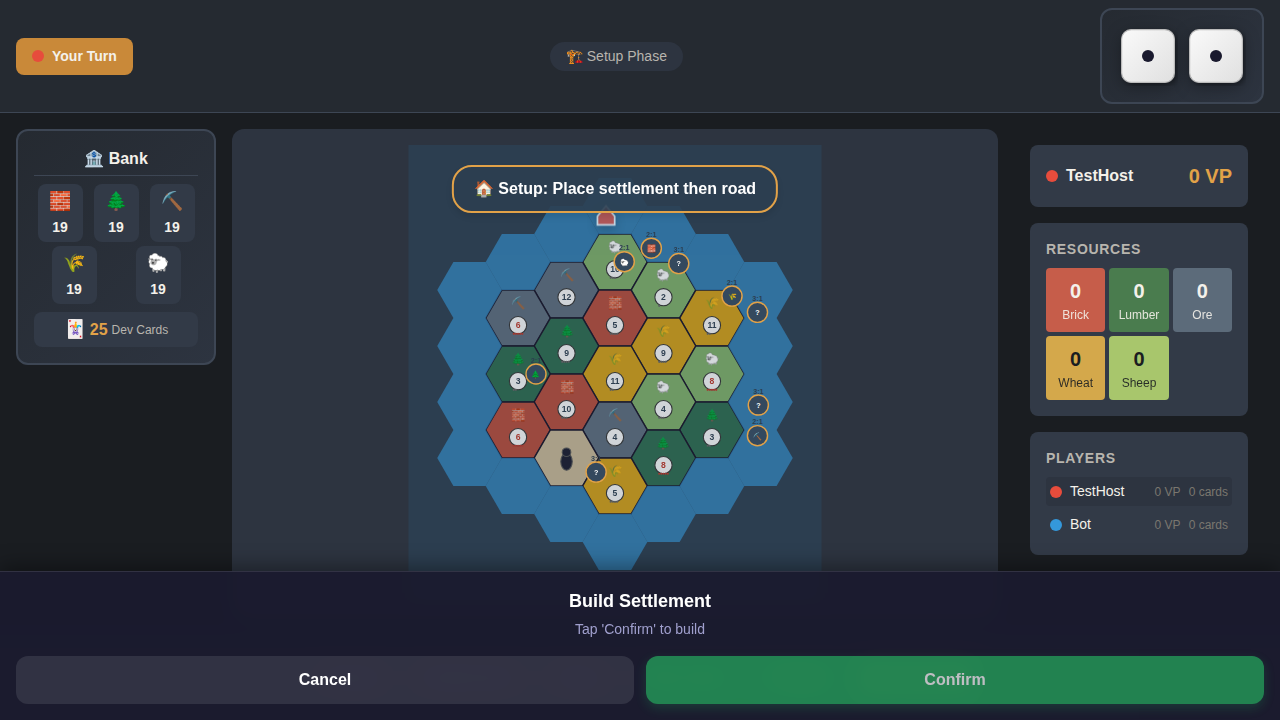
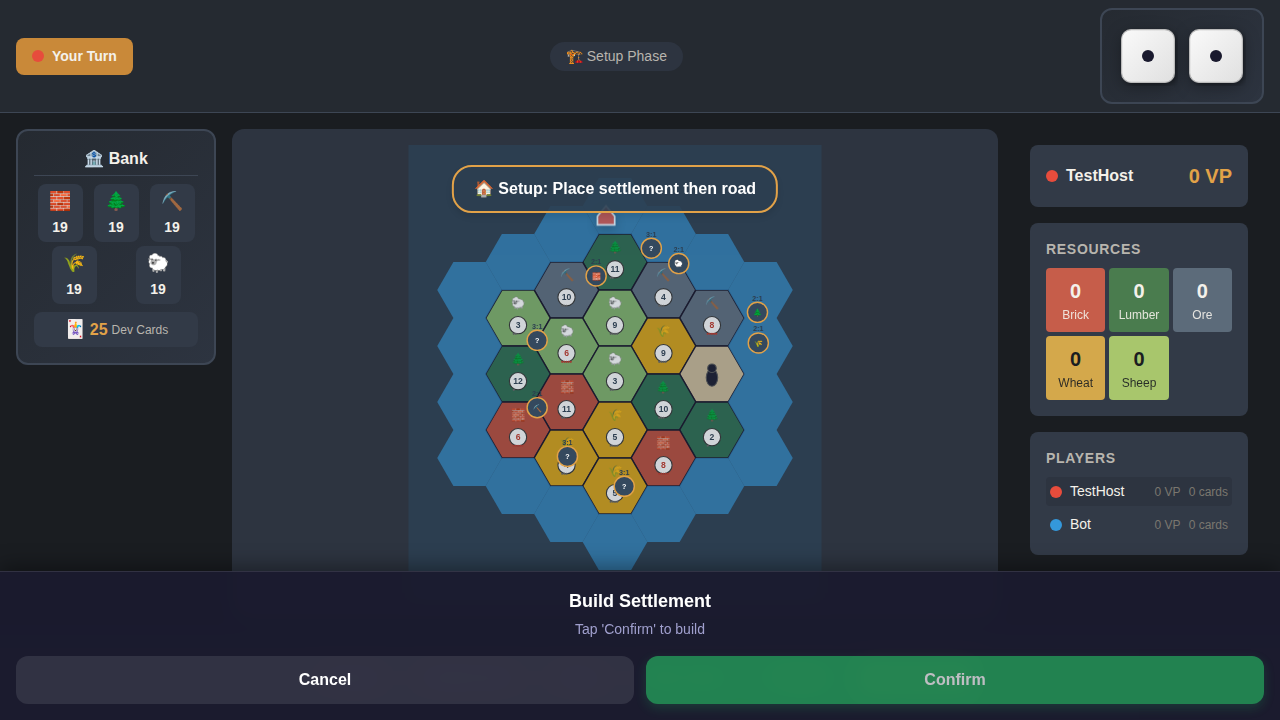
Fix vertex geometry: compute exact corner positions from hex math

Changed region(s): [[0.375, 0.3056, 0.625, 0.7028]]

diff --git a/client/src/components/Board/HexBoard.tsx b/client/src/components/Board/HexBoard.tsx
@@ -14,6 +14,16 @@ interface HexBoardProps {
 // Flat-top hexagons
 const HEX_SIZE = 45;
 
+// Hex neighbor directions (axial coordinates, flat-top)
+const HEX_DIRECTIONS = [
+    { q: 1, r: 0 }, { q: 1, r: -1 }, { q: 0, r: -1 },
+    { q: -1, r: 0 }, { q: -1, r: 1 }, { q: 0, r: 1 }
+];
+
+function getHexNeighbors(coord: { q: number; r: number }) {
+    return HEX_DIRECTIONS.map(d => ({ q: coord.q + d.q, r: coord.r + d.r }));
+}
+
 // Convert axial to pixel
 function hexToPixel(q: number, r: number): { x: number; y: number } {
     const x = HEX_SIZE * (3 / 2 * q);
@@ -150,35 +160,68 @@ function HexBoard({ board, buildings, roads }: HexBoardProps) {
         setSelectedPlacement(null);
     }, [buildMode]);
 
-    // Optimize vertex position calculation with useMemo
+    // Compute correct vertex positions from hex geometry
     const vertexPositions = useMemo(() => {
         const result = new Map<string, { x: number, y: number }>();
         if (!board.hexes.length) return result;
 
+        const hexMap = new Map<string, { x: number; y: number }>();
+        for (const hex of board.hexes) {
+            hexMap.set(`${hex.coord.q},${hex.coord.r}`, hexToPixel(hex.coord.q, hex.coord.r));
+        }
+
+        // Flat-top hex corner angles (degrees): 0, 60, 120, 180, 240, 300
+        const cornerAngles = [0, 60, 120, 180, 240, 300];
+
+        const vertexHexSets = new Map<string, Set<string>>();
         for (const vertex of board.vertices) {
-            if (vertex.hexes.length > 0) {
-                const positions: { x: number, y: number }[] = [];
-                for (const hexCoord of vertex.hexes) {
-                    const center = hexToPixel(hexCoord.q, hexCoord.r);
-                    const corners = getHexCorners(center.x, center.y);
-                    positions.push(...corners);
-                }
+            vertexHexSets.set(vertex.id, new Set(vertex.hexes.map(h => `${h.q},${h.r}`)));
+        }
 
-                if (positions.length > 0) {
-                    let count = 0;
-                    let sumX = 0;
-                    let sumY = 0;
-                    const p0 = positions[0];
+        for (const vertex of board.vertices) {
+            if (vertex.hexes.length === 0) continue;
 
-                    for (const p of positions) {
-                        if (Math.abs(p.x - p0.x) < 5 && Math.abs(p.y - p0.y) < 5) {
-                            sumX += p.x;
-                            sumY += p.y;
-                            count++;
-                        }
+            // Find which corner of each touching hex this vertex is at
+            const positions: { x: number; y: number }[] = [];
+
+            for (const hexCoord of vertex.hexes) {
+                const center = hexMap.get(`${hexCoord.q},${hexCoord.r}`);
+                if (!center) continue;
+
+                const neighbors = getHexNeighbors(hexCoord);
+                const vertexSet = vertexHexSets.get(vertex.id)!;
+
+                for (let i = 0; i < 6; i++) {
+                    const n1 = neighbors[i];
+                    const n2 = neighbors[(i + 1) % 6];
+
+                    // The corner set: this hex plus its two neighbors, filtered to board hexes
+                    const cornerSet = new Set([
+                        `${hexCoord.q},${hexCoord.r}`,
+                        `${n1.q},${n1.r}`,
+                        `${n2.q},${n2.r}`
+                    ]);
+                    for (const key of [...cornerSet]) {
+                        if (!hexMap.has(key)) cornerSet.delete(key);
                     }
-                    result.set(vertex.id, { x: sumX / count, y: sumY / count });
+
+                    // Match if the corner set equals the vertex's hex set
+                    if (cornerSet.size === vertexSet.size && [...cornerSet].every(k => vertexSet.has(k))) {
+                        const angle = (Math.PI / 180) * cornerAngles[i];
+                        positions.push({
+                            x: center.x + HEX_SIZE * Math.cos(angle),
+                            y: center.y + HEX_SIZE * Math.sin(angle)
+                        });
+                        break;
+                    }
                 }
+            }
+
+            if (positions.length > 0) {
+                // Average positions (should be very close or identical)
+                const avgX = positions.reduce((s, p) => s + p.x, 0) / positions.length;
+                const avgY = positions.reduce((s, p) => s + p.y, 0) / positions.length;
+                result.set(vertex.id, { x: avgX, y: avgY });
             }
         }
         return result;
